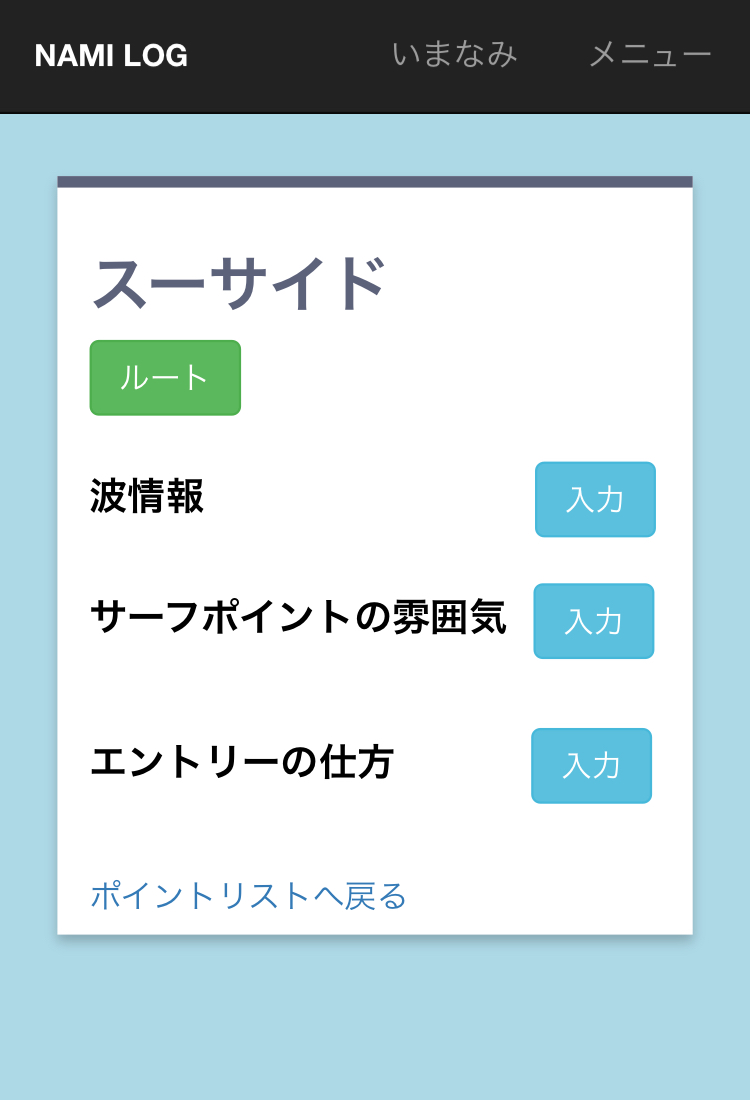
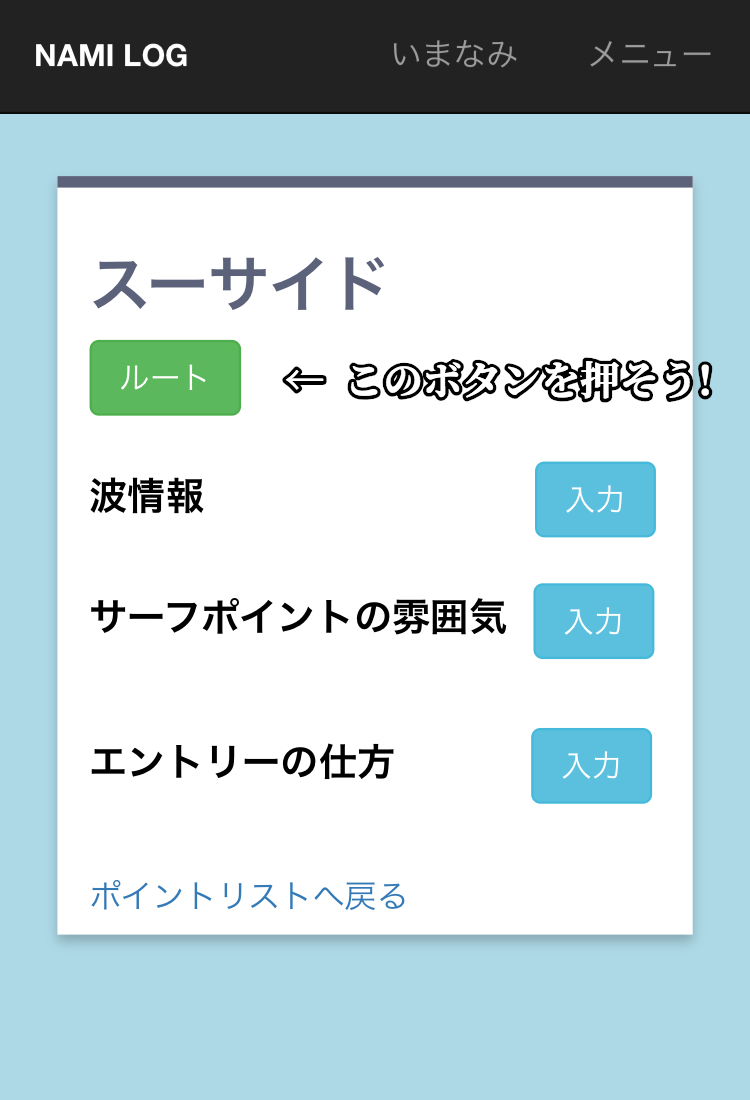
使い方を書きました。

Changed region(s): [[0.46, 0.3091, 0.9507, 0.3709], [0.368, 0.34, 0.4293, 0.3709]]

diff --git a/app/assets/stylesheets/home.scss b/app/assets/stylesheets/home.scss
@@ -38,25 +38,36 @@
         z-index:-1; //背面に表示する
 
         .App{
+          /*
             position: absolute;
             top: 0%;
             bottom: 70%;
             right: 0%;
             left: 0%;
+          */
 
-            h1{
+
+
+          h1{
               font-size:140px;
               color: #FFFFFF;
               position: relative;//application.scssが悪さしてるから
-              top: 0px;//application.scssが悪さしてるから
+              top: -30px;//application.scssが悪さしてるから
               text-align: center;
               font-weight: 600;
               font-family: "Comic Sans MS";
               text-stroke: 1px #6495ED;
               -webkit-text-stroke: 1px #6495ED;
+              text-shadow:
+                0px 0px 0px #ffffff,
+                -2px 2px 1px #000000,
+                0px 0px 0px #ffffff,
+                0px 0px 0px #000000;
             }
             h2{
               color: #6495ED;
+              position: relative;//application.scssが悪さしてるから
+              top: -50px;//application.scssが悪さしてるから
               font-weight: 800;
               font-size:50px;
               text-align:center;

diff --git a/app/assets/stylesheets/explain.scss b/app/assets/stylesheets/explain.scss
@@ -13,13 +13,13 @@
     //　画面サイズが767px以下の場合読み込む
 
     body {
-      background-color: #a0f7ff;
+      background-color: #add8e6;
     }
 
     .NAMI_LOG{
         margin-top:0%;
-        padding-bottom:1vh;
-        background-color: rgb(130, 207, 233);
+        padding-bottom: 0px;
+        background-color: rgb(10, 189, 230);
         h1{
             font-size:13vw; //vw 画面の横のサイズに合わせて文字のサイズを変更
             margin-top:1vh;
@@ -125,6 +125,7 @@
     .box30 p {
       padding: 15px 20px;
       margin: 0;
+      font-size:55px;
     }
 
 
@@ -143,6 +144,20 @@
         margin-bottom:4vh;
     }
 
+    //ポイントリストに行く時のボタン
+    .btn#MyPage{
+      //ボタンを中央揃えにする
+      width:80%; //ボタンの横の大きさを指定
+      display: block;
+      margin-left: auto;
+      margin-right: auto;
+
+      font-size:70px;//ボタンの中の文字の大きさを変更
+      text-align: center;
+
+      margin-bottom:4vh;
+    }
+
     .box12 {
       padding: 0.5em 1em;
       margin: 2em 1em 1em 1em;
@@ -157,6 +172,5 @@
       margin: 0;
       padding: 0;
     }
-
 
 }
